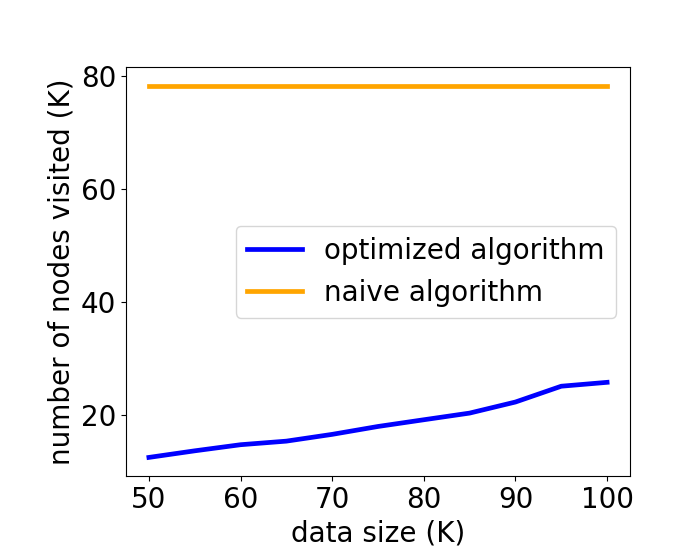
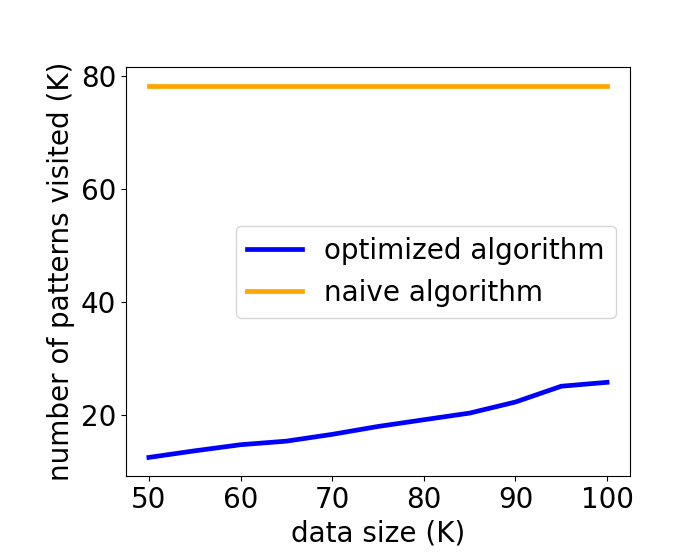
general adult, datasize

Changed region(s): [[0.06, 0.0911, 0.12, 0.8804]]

diff --git a/Coding/Experiments/General_FP/AdultData/data_size_0_20210521.py b/Coding/Experiments/General_FP/AdultData/data_size_0_20210521.py
@@ -14,7 +14,7 @@ x axis: data sizes: 100, 500, 1000, 5000, 10000, 40000
 
 Other parameters:
 selected_attributes = ['age', 'education', 'marital-status', 'race', 'gender', 'workclass']
-threshold of cardinality Thc = 30
+size threshold Thc = 30
 threshold of minority group accuracy: overall acc - 20
 
 """
@@ -180,7 +180,7 @@ plt.plot(data_sizes, num_patterns_checked2, label="naive algorithm", color='oran
 plt.xlabel('data size (K)')
 plt.xticks([40000, 50000, 60000, 70000, 80000, 90000, 100000])
 ax.xaxis.set_major_formatter(FuncFormatter(thousands_formatter))
-plt.ylabel('number of nodes visited (K)')
+plt.ylabel('number of patterns visited (K)')
 ax.yaxis.set_major_formatter(FuncFormatter(thousands_formatter))
 plt.subplots_adjust(bottom=0.15, left=0.18)
 plt.legend()

diff --git a/Coding/Experiments/General_FP/AdultData/data_size_1_20210629.py b/Coding/Experiments/General_FP/AdultData/data_size_1_20210629.py
@@ -14,7 +14,7 @@ x axis: data sizes: 100, 500, 1000, 5000, 10000, 40000
 
 Other parameters:
 selected_attributes = ['age', 'education', 'marital-status', 'race', 'gender', 'workclass']
-threshold of cardinality Thc = 30
+size threshold Thc = 30
 threshold of minority group accuracy: overall acc - 20
 
 """
@@ -192,7 +192,7 @@ plt.plot(data_sizes, num_patterns_checked2, label="naive algorithm", color='oran
 plt.xlabel('data size (K)')
 plt.xticks([50000, 60000, 70000, 80000, 90000, 100000])
 ax.xaxis.set_major_formatter(FuncFormatter(thousands_formatter))
-plt.ylabel('number of nodes visited (K)')
+plt.ylabel('number of patterns visited (K)')
 ax.yaxis.set_major_formatter(FuncFormatter(thousands_formatter))
 plt.subplots_adjust(bottom=0.15, left=0.18)
 plt.legend()
